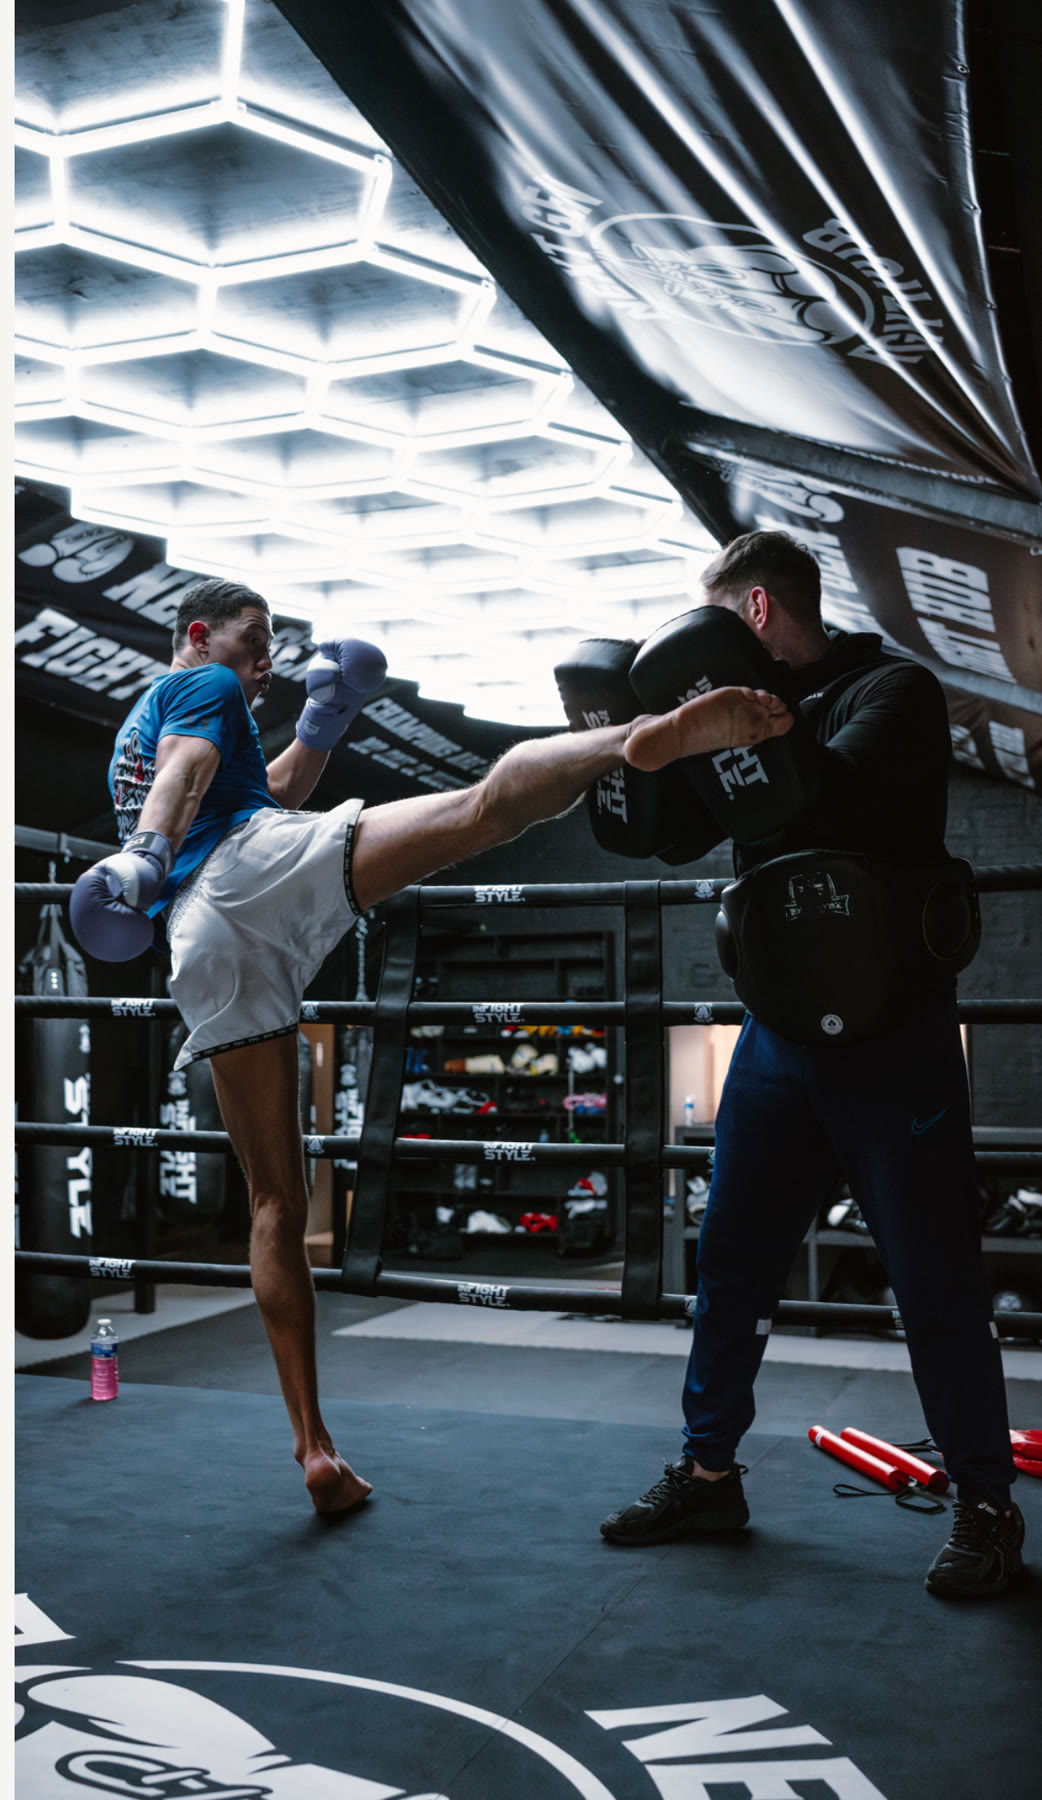
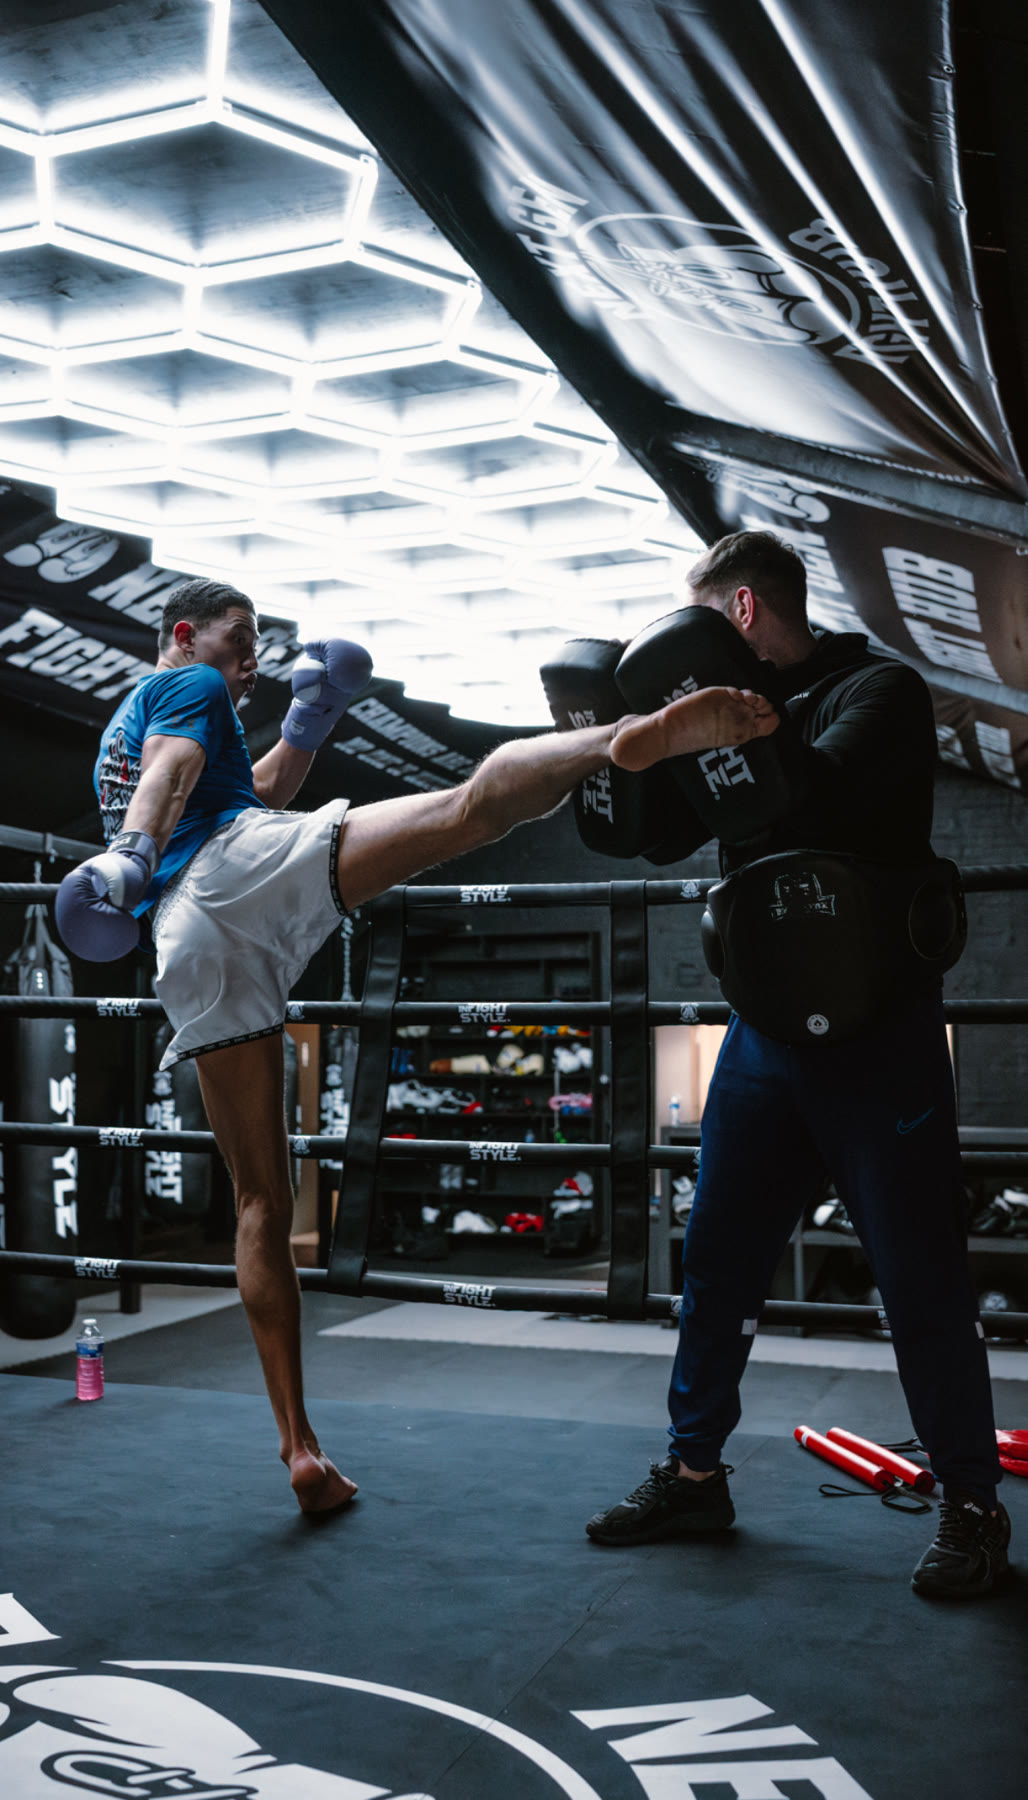
Clean the white edge off two gallery photos, swap the walkout shot
Hayden flagged a pale strip down the left of the first Media photo. It was
baked into the export, not the CSS, so pads-kick-2 and pads-punch are
re-cropped from the raws and re-exported (dimensions updated to match).

He also didn't want the fight-night walkout poster, so it comes out of the
gallery and a Top Rope Boxing training shot takes its place, cropped free of
the Instagram carousel chrome.

diff --git a/lib/site/media.ts b/lib/site/media.ts
@@ -124,14 +124,14 @@ export const galleryImages: Photo[] = [
   {
     src: "/images/media/pads-kick-2.jpg",
     alt: "A fighter throwing a high kick onto the pads under the hexagon lights",
-    width: 1042,
+    width: 1028,
     height: 1800,
   },
   {
-    src: "/images/media/fight-night-walkout.jpg",
-    alt: "A Next Gen fighter walking out to the ring on fight night",
-    width: 1185,
-    height: 1064,
+    src: "/images/media/boxing-drill.jpg",
+    alt: "Boxing coaching on the body pad beside the heavy bags at Next Gen Fight Hub",
+    width: 930,
+    height: 1214,
   },
   {
     src: "/images/media/pads-close.jpg",
@@ -160,7 +160,7 @@ export const galleryImages: Photo[] = [
   {
     src: "/images/media/pads-punch.jpg",
     alt: "A fighter driving a straight punch into the pads",
-    width: 1014,
+    width: 1010,
     height: 1800,
   },
   {
